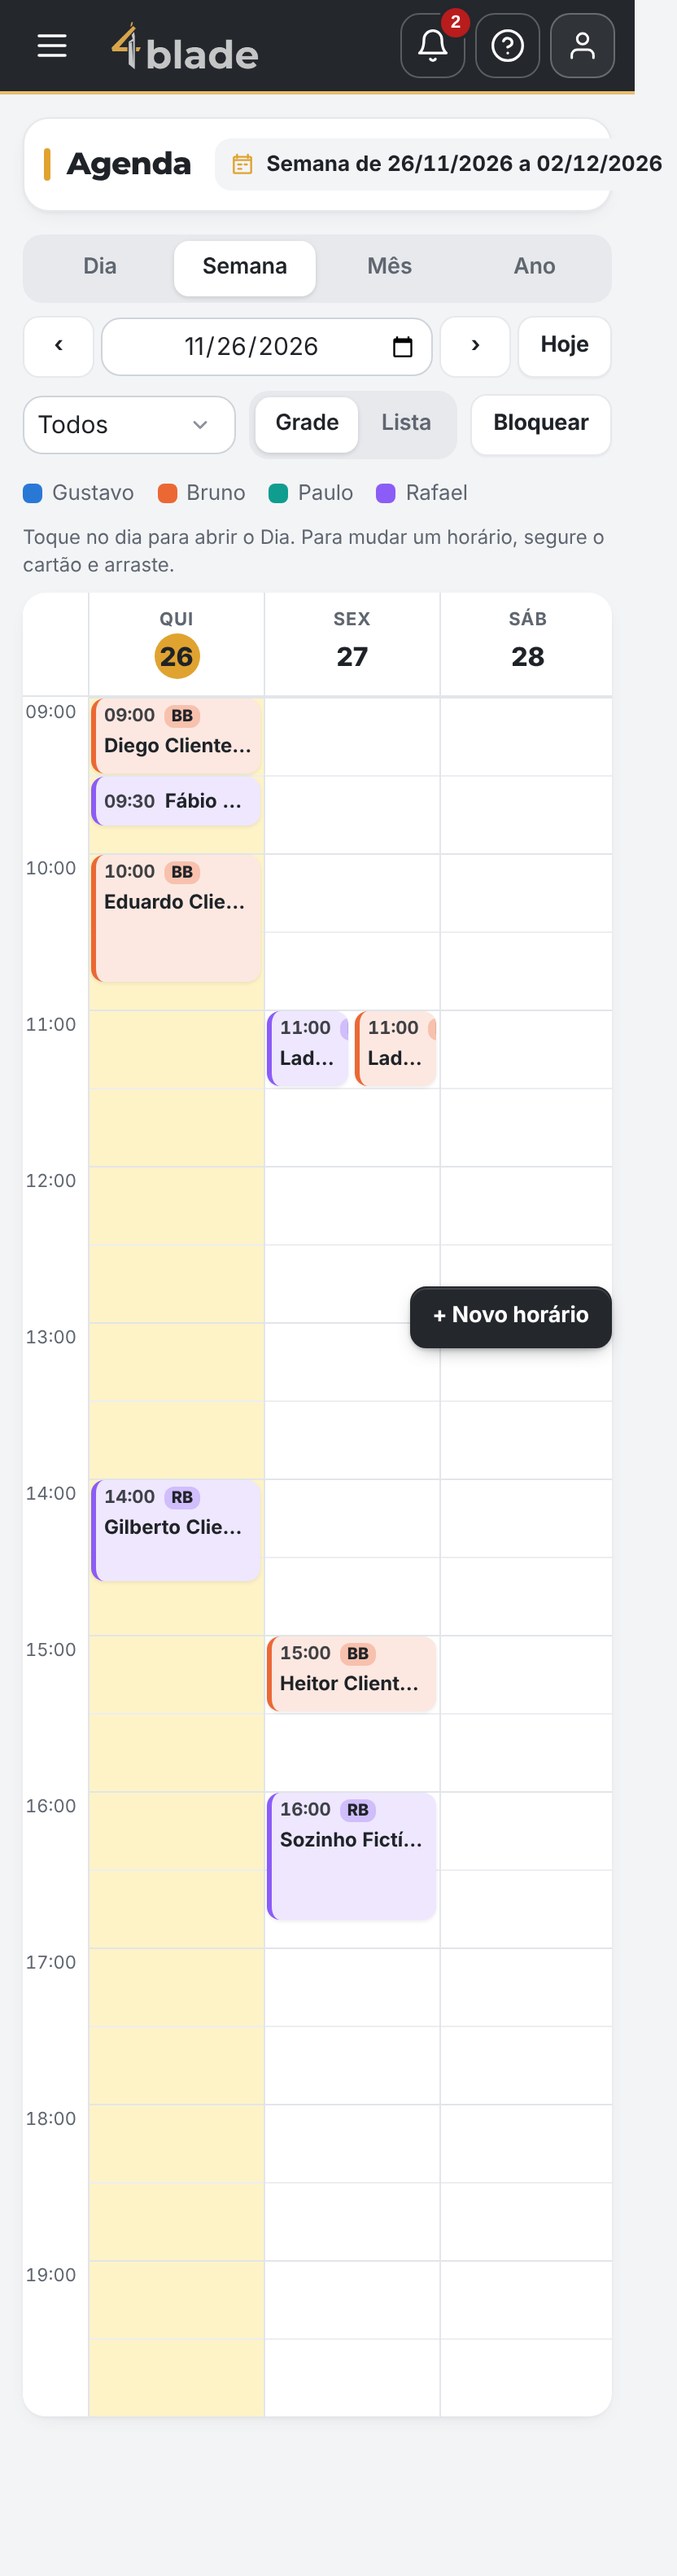
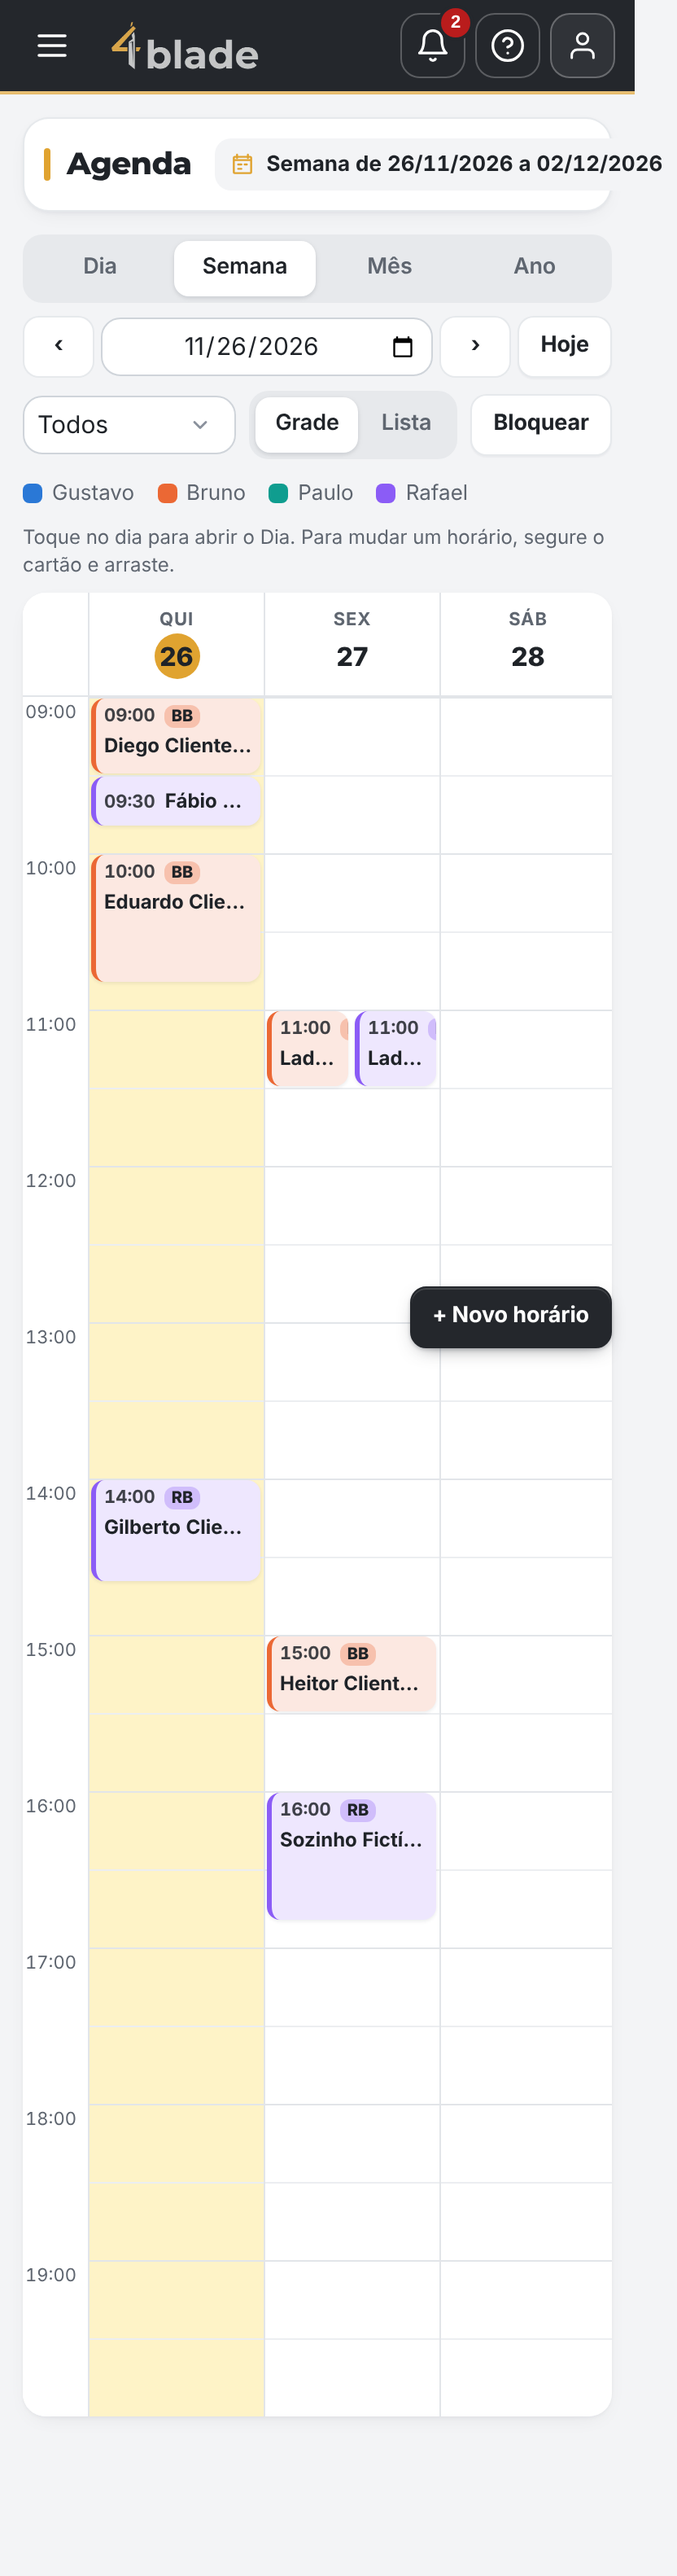
Correção no caixa fica no mesmo caixa/dia da cobrança original
Claude-Session: https://claude.ai/code/session_01R9hMmP8YX9EsdpaJW4w2cf

Changed region(s): [[0.375, 0.3717, 0.6562, 0.4336]]

diff --git a/test/corrigir-caixa.test.js b/test/corrigir-caixa.test.js
@@ -202,4 +202,27 @@ describe("corrigir atendimento já cobrado no caixa", () => {
     // nada mudou
     assert.equal(env.DB.raw.prepare("SELECT COUNT(*) n FROM finalizacoes WHERE agendamento_id = ? AND estornada = 0").get(m.id).n, 1);
   });
+
+  test("correção fica no MESMO caixa/dia da cobrança original (não vira lançamento de hoje; sem duplicidade entre dias)", async () => {
+    const amb = await cenario("corr14");
+    const { post, get, cx, ger, corte, env } = amb;
+    const m = await cobrado(amb, "09:00");
+    // a cobrança original foi feita num caixa de outro dia (ontem, ainda aberto): volta o caixa para ontem
+    const ontem = new Date(Date.parse(`${HOJE}T12:00:00Z`) - 86400e3).toISOString().slice(0, 10);
+    env.DB.raw.prepare("UPDATE caixas SET data = ?").run(ontem);
+    const caixaOrig = env.DB.raw.prepare("SELECT id FROM caixas").get().id;
+    const r = await post("/api/caixa/corrigir-atendimento", cx.token, { id: m.id, motivo: "Valor errado",
+      itens: [{ servicoId: corte.id, precoCobradoCentavos: 5000 }], pagamentos: [{ forma: "pix", valorCentavos: 5000 }] });
+    assert.equal(r.status, 201, JSON.stringify(r.dados));
+    // nenhum caixa novo (hoje) foi criado; a cobrança nova está no caixa de ontem, junto do estorno
+    assert.equal(env.DB.raw.prepare("SELECT COUNT(*) n FROM caixas").get().n, 1);
+    const ativa = env.DB.raw.prepare("SELECT caixa_id FROM finalizacoes WHERE agendamento_id = ? AND estornada = 0").get(m.id);
+    assert.equal(ativa.caixa_id, caixaOrig);
+    // dia de ontem fecha certo: só a cobrança nova (50,00); hoje fica vazio
+    const dOntem = (await get(`/api/caixa/lancamentos?tipo=dia&data=${ontem}`, ger.token)).dados;
+    assert.equal(dOntem.totais.entradasCentavos, 5000);
+    assert.equal(dOntem.lancamentos.filter(l => l.tipo === "atendimento").length, 1);
+    const dHoje = (await get(`/api/caixa/lancamentos?tipo=dia&data=${HOJE}`, ger.token)).dados;
+    assert.equal(dHoje.totais.entradasCentavos, 0); assert.equal(dHoje.lancamentos.length, 0);
+  });
 });

diff --git a/src/agenda.js b/src/agenda.js
@@ -364,13 +364,16 @@ export async function exigirClienteDaNota(ctx, clienteId) {
   return c;
 }
 
-export async function finalizarDados(ctx, input) {
+export async function finalizarDados(ctx, input, { caixaId = null } = {}) {
   const { db, user } = ctx;
   const a = await agendamentoPermitido(ctx, input.id, { cobrar: true });
   if (a.situacao !== "agendado") erro(`Esse horário está "${a.situacao}"; só dá para finalizar um horário agendado.`, 409);
   const hoje = hojeBrasil();
   if (a.data > hoje) erro("Não dá para finalizar um horário de um dia que ainda não chegou.", 409);
-  const caixa = await caixaParaLancar(ctx);   // gerente/dono: também com o caixa fechado (17/11/2026)
+  // Correção de um atendimento: a cobrança nova volta para o MESMO caixa da cobrança corrigida (o dia do lançamento não muda).
+  // Cobrança normal: caixa de hoje (gerente/dono: também com o caixa fechado — 17/11/2026).
+  const caixa = (caixaId && await db.prepare("SELECT * FROM caixas WHERE id = ? AND barbearia_id = ? AND situacao = 'aberto'").bind(caixaId, ctx.barbeariaId).first())
+    || await caixaParaLancar(ctx);
 
   // Serviços e valores (o valor de tabela vem do cadastro; o cobrado pode ser alterado e fica registrado).
   const itensIn = input.itens;
@@ -523,6 +526,7 @@ export async function reabrirDados(ctx, input) {
   if (!(await db.prepare(`SELECT 1 FROM finalizacoes WHERE id = ? AND estorno_id = ?`).bind(f.id, estornoId).first())) {
     erro("Não foi possível reabrir: o caixa foi fechado ou o atendimento já foi reaberto.", 409);
   }
+  return { caixaId: f.caixa_id };
 }
 
 // ---------- REMARCAR (remanejar um horário agendado: outra hora, outro dia e/ou outro profissional) ----------

diff --git a/src/caixa.js b/src/caixa.js
@@ -324,7 +324,7 @@ export async function rotasCaixa(ctx, path, method) {
       const inicio = `${input.data}T${input.hora}`, fimNovo = `${input.data}T${hm(ini + dur)}`;
       if (inicio !== ag.inicio) novoHorario = { agId: ag.id, data: input.data, inicio, fim: fimNovo, antes: { data: ag.data, inicio: ag.inicio, fim: ag.fim } };
     }
-    await reabrirDados(ctx, { id: input.id, motivo: `Correção no caixa: ${motivo}` });
+    const { caixaId } = await reabrirDados(ctx, { id: input.id, motivo: `Correção no caixa: ${motivo}` });
     try {
       if (novoHorario) {
         const r = await db.batch([
@@ -353,7 +353,7 @@ export async function rotasCaixa(ctx, path, method) {
         ]);
         if (!r[0].meta?.changes) throw new HttpError("Não foi possível trocar quem atendeu.", 409);
       }
-      return await finalizarDados(ctx, { id: input.id, itens: input.itens, pagamentos: input.pagamentos, produtos: input.produtos });
+      return await finalizarDados(ctx, { id: input.id, itens: input.itens, pagamentos: input.pagamentos, produtos: input.produtos }, { caixaId });
     } catch (e) {
       // estornou mas não cobrou de novo: o atendimento voltou para a fila "Cobrar"
       throw new HttpError(`A cobrança antiga foi estornada, mas a nova não entrou (${e.message}). O atendimento voltou para a fila: cobre de novo.`, e.status || 409);

diff --git a/public/sw.js b/public/sw.js
@@ -3,7 +3,7 @@
  * Guarda SOMENTE os arquivos da tela (para abrir sem internet).
  * NUNCA guarda nada de /api/ (dados e login sempre vão direto ao servidor).
  */
-const CACHE = "4blade-v95";
+const CACHE = "4blade-v96";
 
 const ARQUIVOS = [
   "/",

diff --git a/CLAUDE.md b/CLAUDE.md
@@ -324,3 +324,4 @@ App de gestão para barbearias, vendido por assinatura para várias barbearias (
   - 26/11/2026 (pedido do responsável): **Caixa só com Dia e Semana; aba "Lançamentos" em Relatórios (mês completo); mês fechado = só consulta.** Sem migração. Caixa: `blocoLancamentosPeriodo(recarregar, {e, tipos, avisoMesFechado})` com chips só Dia | Semana; `GET /caixa/lancamentos?tipo=mes` só para gestão (caixa → 403). Relatórios: 5ª aba `[data-aba-fin=lancamentos]` (`abasRelatorios(aba)`; `telaFinanceiro` desenha direto, sem buscar o relatório; `estadoFin.lanc`), `[data-teste=fin-lancamentos]`, navegação ‹ › por mês. **Regra decidida (confirmar): "mês fechado" = qualquer mês anterior ao mês de hoje** (`mesFechado`/`MSG_MES_FECHADO` em agenda-util.js; pelo dia do CAIXA do lançamento). Nesses meses: sem Corrigir/Cancelar venda/Estornar recebimento (`podeCorrigir`/`podeCancelarVenda`/`podeEstornar` = false) e o servidor responde 409 em corrigir forma, corrigir atendimento, reabrir atendimento, cancelar venda, estornar recebimento de nota e reabrir caixa; a tela mostra o aviso `[data-teste=mes-fechado]`. Mês atual segue editável (caixa aberto). Testes: `test/corrigir-caixa.test.js` (+1) + `test/navegador-financeiro.mjs` (print `*-lancamentos-mes`) + navegador-agenda. `npm test` (204). Cache do sw `4blade-v93`. **Publicado em 26/11/2026 (autorizado, sem migração), junto com corrigir dia/hora e "quem atendeu" sem choque: versão df4666c3** (forblade.com.br: sw `4blade-v93`, app.js com `fin-lancamentos`, `/api/caixa/lancamentos` 401 sem login).
   - 27/11/2026 (pedido do responsável: "mesmo esquema do clique e expande, tirar o excesso em botões"): **lista de lançamentos do caixa** (`listaCaixa`, usada no Caixa e em Relatórios → Lançamentos) virou `itemExpansivel` (`ul.lista-x.lista-lanc`, `chave: lanc-<id>`): linha enxuta = hora + cliente (ou tipo) + valor, com sub "Atendimento · Pix · corrigido"; tocar abre detalhes (barbeiro, itens, correção, desconto, nota) e as ações. Botões reduzidos: um só **Corrigir** (atendimento → correção completa; venda → forma) e **Cancelar venda** como texto de perigo (antes: Corrigir/Corrigir forma/Cancelar venda sempre à vista). Testes: helper `abrirLancamento(page, nome)` em `test/navegacao.mjs`; navegador-agenda/e3/financeiro ajustados. Cache do sw `4blade-v94`. Sem migração. NÃO publicado ainda.
   - 27/11/2026 (pedido do responsável: tirar de Relatórios e criar área própria): **Lançamentos** é agora um item do menu **Financeiro** (gerente/dono; rota `lancamentos`, `telaLancamentos`, `[data-teste=tela-lancamentos]`), logo depois de "Relatório financeiro", com chips Dia | Semana | **Mês** (abre no mês) e busca; a aba Lançamentos de Relatórios saiu (`abasRelatorios` volta a 4 abas; `estadoFin.lanc` removido; `estadoLanc` novo). O Caixa continua com Dia | Semana. Mês anterior = fechado (só consulta, aviso `[data-teste=mes-fechado]`). Testes: `test/navegador-financeiro.mjs` (menu → Lançamentos; Relatórios sem a aba; mês passado sem Corrigir) e `test/navegador-melhorias.mjs` (menu Financeiro com 4 itens). `npm test` (204). Cache do sw `4blade-v95`. NÃO publicado ainda (inclui também a lista que expande, v94).
+  - 27/11/2026 (relato do responsável: correção de um atendimento de 18/11 "caiu como lançamento atual"): **correção agora fica no MESMO caixa/dia da cobrança original.** Antes, `finalizarDados` sempre lançava a cobrança nova no caixa de HOJE enquanto o estorno ia para o caixa original → o dia antigo perdia a receita e o dia de hoje ganhava (total geral certo, mas relatórios por dia, comissão do dia e Lançamentos distorcidos). Agora `reabrirDados` devolve `{caixaId}` e `/caixa/corrigir-atendimento` chama `finalizarDados(ctx, input, { caixaId })` (usa esse caixa se estiver aberto; senão cai no caixa de hoje como antes). Cobrança normal e "Reabrir + Finalizar" pela agenda continuam no caixa de hoje. **Dados que já foram corrigidos antes desta versão ficam como estão** (a cobrança nova está no caixa de hoje; o dia antigo mostra original + estorno somando zero) — só um ajuste de dados corrige (precisa de confirmação). Teste: `test/corrigir-caixa.test.js` (+1: nenhum caixa novo, cobrança nova no caixa de ontem, hoje vazio). `npm test` (205). Cache do sw `4blade-v96`. NÃO publicado ainda.
